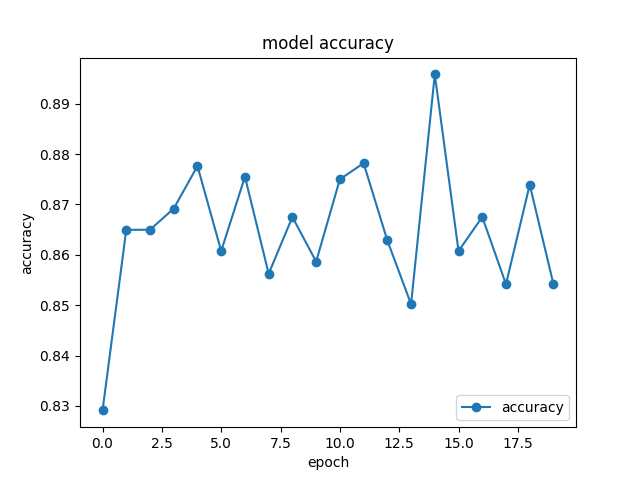
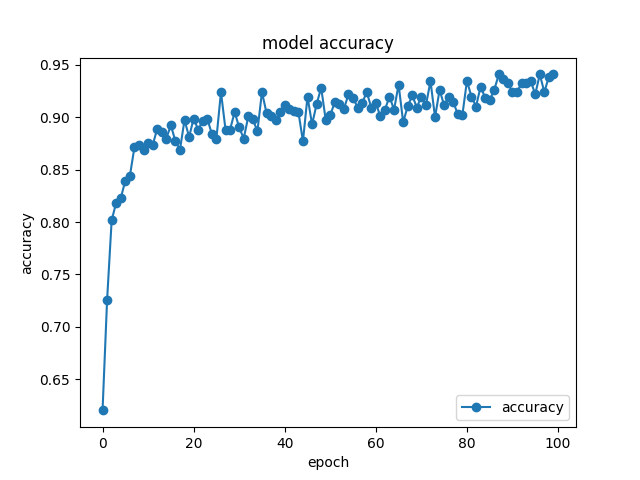
[fix]モデルを変更

diff --git a/src/model.py b/src/model.py
@@ -11,7 +11,7 @@ from keras.layers import Conv2D
 from keras.layers import Dropout
 # from keras.layers import Flatten
 from keras.layers import GlobalAveragePooling2D
-from keras.layers import MaxPooling2D
+# from keras.layers import MaxPooling2D
 from keras.layers.normalization import BatchNormalization
 from keras.models import model_from_json
 from keras.models import Sequential
@@ -21,7 +21,7 @@ from keras.utils.np_utils import to_categorical
 import data_loader
 
 
-EPOCHS = 20
+EPOCHS = 30
 BATCH_SIZE = 16
 
 
@@ -59,33 +59,34 @@ class Foreigner_classifier():
     def make_model(self, pre_trained_model_path=None):
         self.model = Sequential()
 
-        self.model.add(Conv2D(filters=16, kernel_size=3, padding="same",
+        self.model.add(Conv2D(filters=16, kernel_size=3, padding="valid",
                               activation="relu",
                               input_shape=self.X_train.shape[1:]))
-        self.model.add(MaxPooling2D(pool_size=2))
+        # self.model.add(MaxPooling2D(pool_size=2))
         self.model.add(BatchNormalization())
 
-        self.model.add(Conv2D(filters=32, kernel_size=3, padding="same",
+        self.model.add(Conv2D(filters=32, kernel_size=3, padding="valid",
                               activation="relu"))
-        self.model.add(MaxPooling2D(pool_size=2))
+        # self.model.add(MaxPooling2D(pool_size=2))
         self.model.add(BatchNormalization())
         self.model.add(Dropout(0.5))
 
-        self.model.add(Conv2D(filters=64, kernel_size=2, padding="same",
+        self.model.add(Conv2D(filters=64, kernel_size=3, padding="valid",
                               activation="relu"))
-        self.model.add(Conv2D(filters=64, kernel_size=2, padding="same",
+        self.model.add(Conv2D(filters=64, kernel_size=3, padding="valid",
                               activation="relu"))
-        self.model.add(Conv2D(filters=32, kernel_size=2, padding="same",
+        self.model.add(Conv2D(filters=32, kernel_size=3, padding="valid",
                               activation="relu"))
-        self.model.add(MaxPooling2D(pool_size=2))
+        # self.model.add(MaxPooling2D(pool_size=2))
         self.model.add(Dropout(0.5))
 
-        self.model.add(Conv2D(filters=32, kernel_size=2, padding="same",
+        self.model.add(Conv2D(filters=32, kernel_size=3, padding="valid",
                               activation="relu"))
-        self.model.add(Conv2D(filters=32, kernel_size=2, padding="same",
+        self.model.add(Conv2D(filters=32, kernel_size=3, padding="valid",
                               activation="relu"))
-        self.model.add(Conv2D(filters=2, kernel_size=2, padding="same",
+        self.model.add(Conv2D(filters=2, kernel_size=3, padding="valid",
                               activation="relu"))
+        self.model.add(BatchNormalization())
         self.model.add(Dropout(0.5))
 
         self.model.add(GlobalAveragePooling2D())
